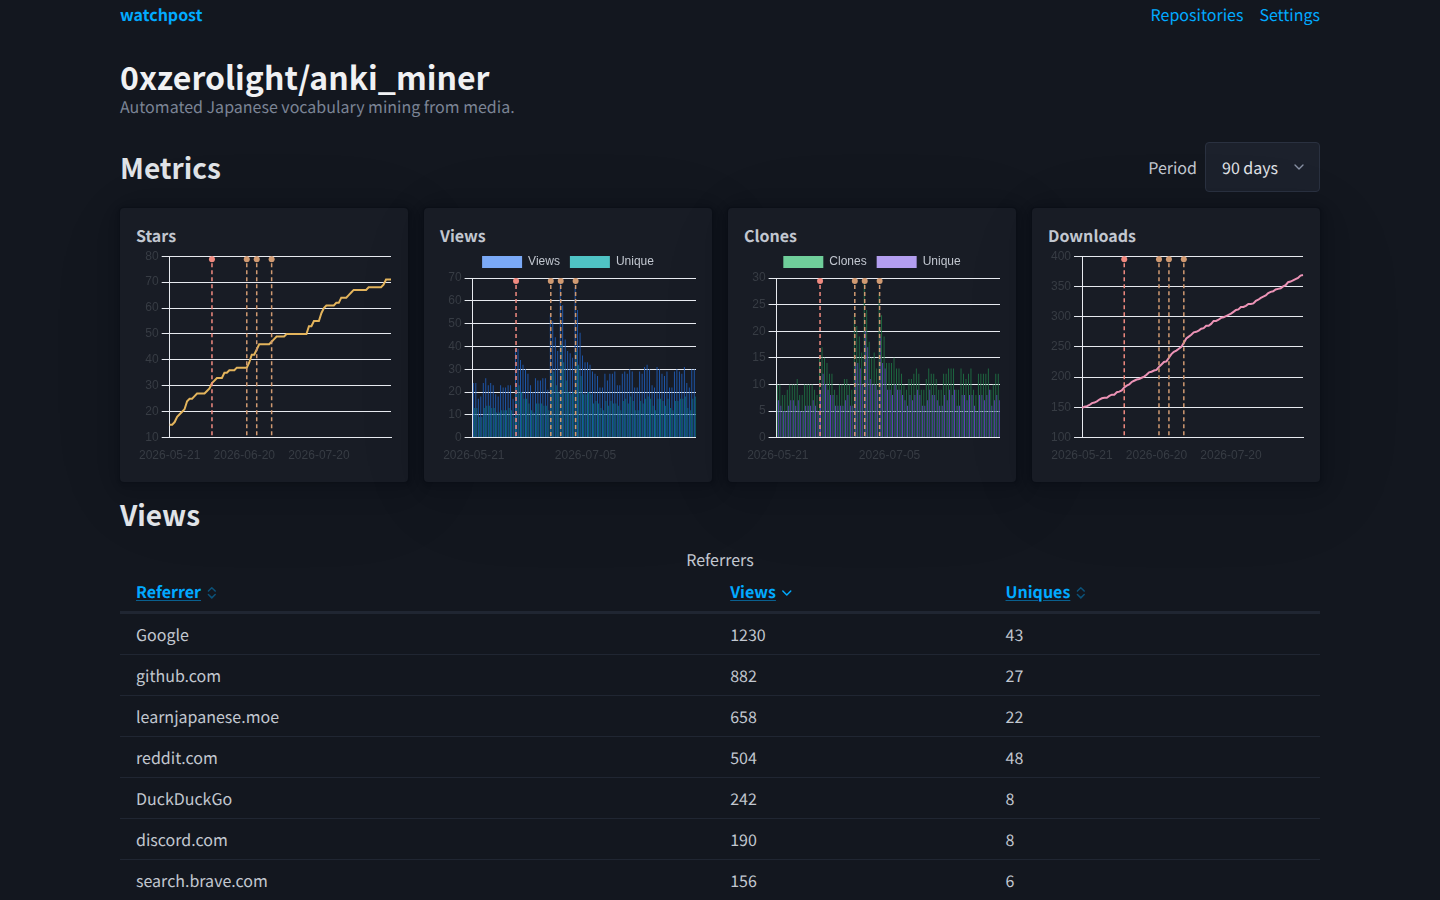
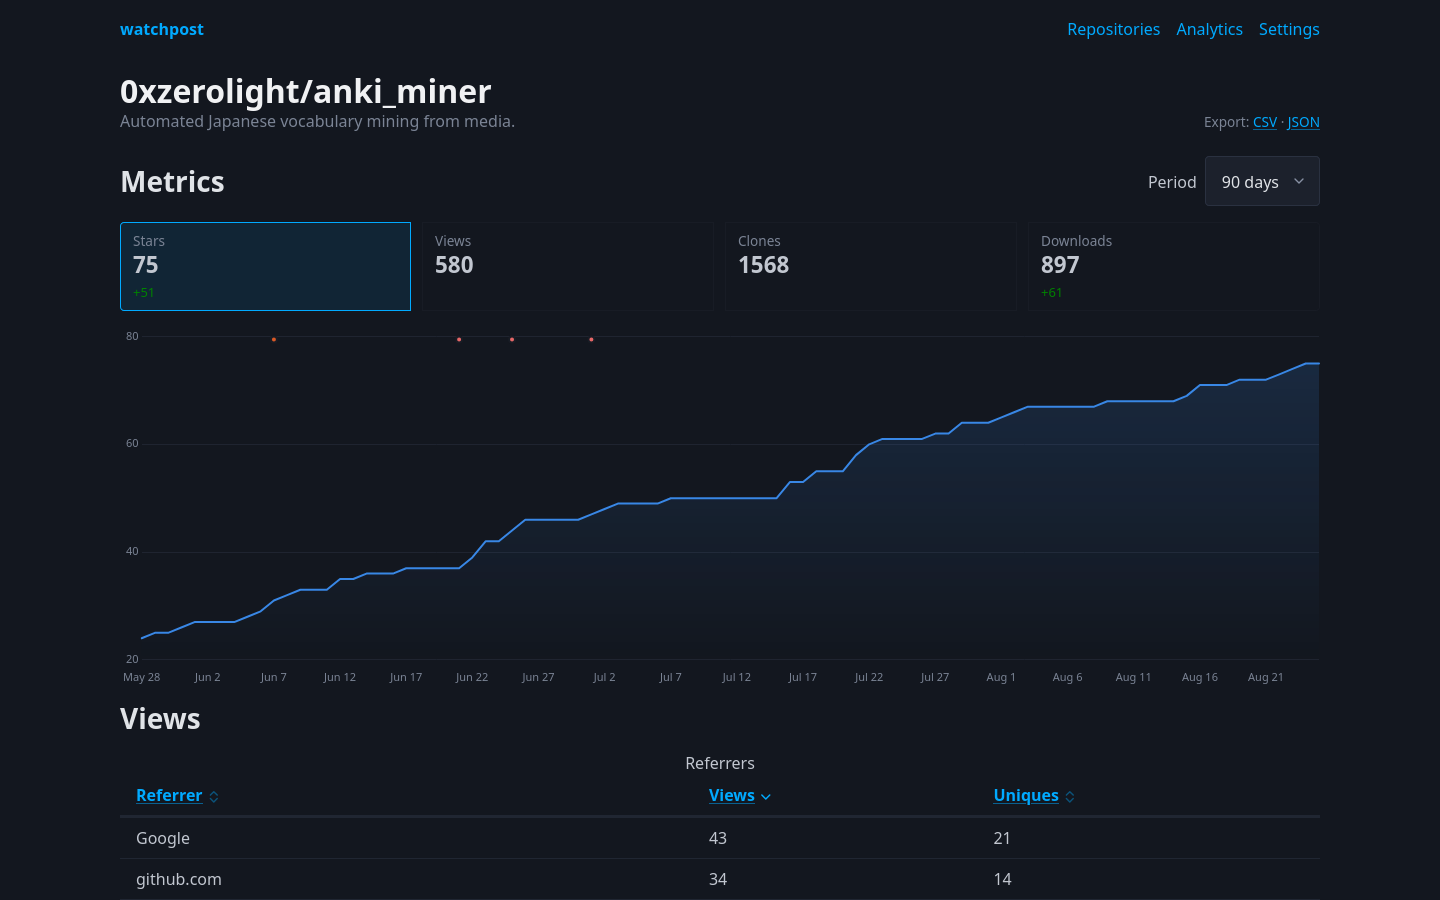
fix: legend keeps declaration order; changelog, README screenshot
The bar datasets' draw order had flipped the views legend to
'Unique, Views'. New dark-mode screenshot for the README demo.

diff --git a/assets/app.js b/assets/app.js
@@ -169,6 +169,11 @@
         item.lineWidth = 0;
       }
     });
+    // Declaration order, not paint order: `order` puts the bars behind the
+    // uniques line, and without this the legend would read "Unique, Views".
+    items.sort(function (a, b) {
+      return a.datasetIndex - b.datasetIndex;
+    });
     return items;
   }
 

diff --git a/tests/analytics_test.rs b/tests/analytics_test.rs
@@ -350,10 +350,11 @@ async fn the_totals_add_the_latest_row_of_every_tracked_repo() {
         body.contains(r#"<strong class="wp-total-value">42</strong>"#),
         "{body}"
     );
-    // The delta badge rides the summed dense series: 25 → 30 for A, and B's
-    // single reading contributes level but no movement.
+    // The delta badge rides the same summed series the portfolio chart plots,
+    // so the two always agree: A moved 25 → 30, and B's first reading is a
+    // genuine step up in the total — +12 of arrival plus +5 of growth.
     assert!(
-        body.contains(r#"class="wp-delta wp-delta-up">+5<"#),
+        body.contains(r#"class="wp-delta wp-delta-up">+17<"#),
         "{body}"
     );
 }

diff --git a/src/routes/html/repo.rs b/src/routes/html/repo.rs
@@ -1402,7 +1402,8 @@ mod tests {
         );
         // Tiles are buttons, not links: they navigate nowhere.
         assert_eq!(
-            out.matches(r#"<button type="button" class="wp-kpi""#).count(),
+            out.matches(r#"<button type="button" class="wp-kpi""#)
+                .count(),
             2,
             "out was {out}"
         );

diff --git a/CHANGELOG.md b/CHANGELOG.md
@@ -70,6 +70,40 @@ adheres to [Semantic Versioning](https://semver.org/spec/v2.0.0.html).
 
 ### Changed
 
+- **The repo page leads with KPI tiles over one hero chart.** The grid of four 240px chart cards
+  is gone: each observed metric is now a stat tile — its level, and for the carried-forward series
+  a per-period delta — above a single full-width chart, and clicking a tile switches which metric
+  that chart plots. The switch is an `aria-pressed` and `hidden` flip over canvases already built
+  from the one payload the page always shipped, so it costs no request; the tile figures are
+  server-rendered per period behind the leaderboard's hidden-span contract, so they are right with
+  JS off and a zoom writes no text. The per-period arithmetic (`growth`, `sum_observed`,
+  `per_period`, `add_into`) moved from the analytics handler to a shared `src/series.rs` to feed
+  both pages from one definition.
+
+- **Daily counts plot as bars.** Views and clones drew ninety spiky points of line into a
+  card-width plot and read as scribble; as rounded columns (capped thickness, translucent at rest,
+  solid on hover) they read as the discrete daily counts they are. Uniques stay a line over the
+  bars, palette slots unchanged, and a null day is a missing bar rather than a zero-height one —
+  the same gap discipline `spanGaps: false` kept for lines.
+
+- **Chart chrome recedes.** Gridlines drop to a hairline one step off the card surface in both
+  schemes (the changes feed's row borders, which shared the token, now use Pico's own separator);
+  the area wash under cumulative lines fades to fully transparent; and the built-in canvas tooltip
+  is replaced by an HTML tip styled from app.css — same face as the marker tip, value before
+  label, "not observed" for a gap — positioned through the CSSOM, which the zero-inline-style CSP
+  permits. A solid grey crosshair marks the hovered column; it is deliberately not dashed, because
+  dashes now mean nothing else on the plot.
+
+- **Event markers rest as dots.** The always-on dashed drop lines — the loudest thing on every
+  chart — are gone; a marker is its coloured dot at the top of the plot, and the drop line draws
+  solid at half strength only while the pointer is in that marker's column. Hover tips, click-to-
+  row and kind filtering are unchanged.
+
+- **Analytics totals wear delta badges.** Stars, forks, open issues and open PRs each carry their
+  movement over the selected period, measured by `growth` over the same summed dense series the
+  portfolio chart plots — an observed flat period reads ±0, an unobserved one an em dash. The
+  portfolio chart adopts the hero height.
+
 - **The dashboard is repo cards again.** The recent-changes feed briefly sat above them; at up to
   twenty full-width rows it pushed the repos the page is named after off the first screen, which is
   the wrong trade for a supporting figure. It now lives on the Analytics page, last, under the

diff --git a/README.md b/README.md
@@ -19,7 +19,7 @@ Please leave a ⭐ star if watchpost is useful - it helps others find it :).
 <h3 align="center">Demo</h3>
 
 <p align="center">
-  <img src="assets/screenshot.png" alt="A watchpost repo page in dark mode: stars, views, clones and downloads over 90 days, each chart marked with the promo events behind the spikes." width="720">
+  <img src="assets/screenshot.png" alt="A watchpost repo page in dark mode: stat tiles for stars, views, clones and downloads over a full-width star chart spanning 90 days, promo event markers dotted along its top." width="720">
 </p>
 
 <p align="center">
